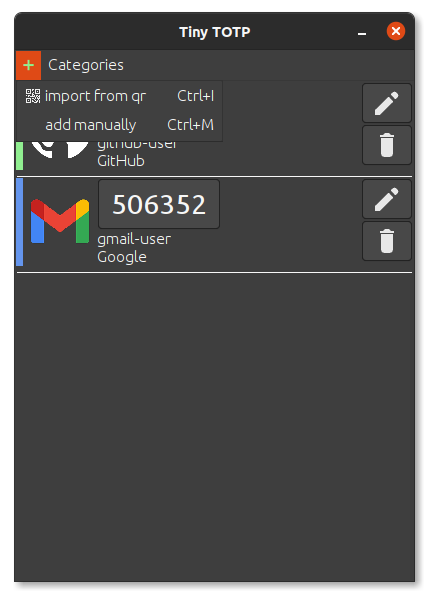
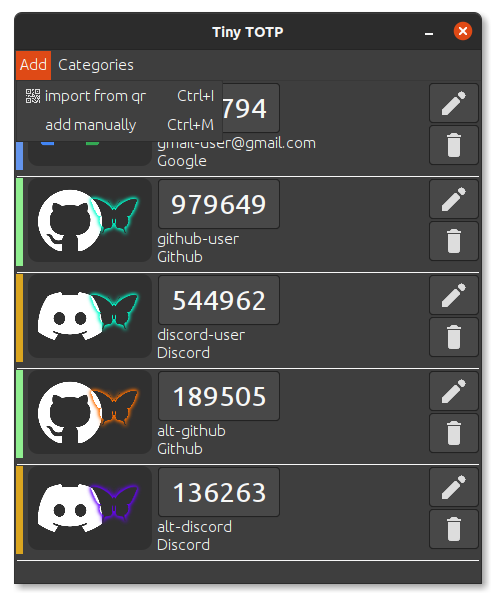
add Screenshots & update README.md

Changed region(s): [[0.03, 0.0, 0.9908, 0.96], [0.4203, 0.03, 0.5704, 0.09], [0.03, 0.0, 0.06, 0.03]]

diff --git a/README.md b/README.md
@@ -37,4 +37,8 @@ This password is used to encryt/decrypt your totp secrets.
 ![Edit Totp Secret](https://raw.githubusercontent.com/kryptonbutterfly/TinyTotp/master/md/Edit-Totp.png)
 
 ![Export Secret](https://raw.githubusercontent.com/kryptonbutterfly/TinyTotp/master/md/Export-Secret.png)
+
+![Set Icon](https://raw.githubusercontent.com/kryptonbutterfly/TinyTotp/master/md/Set-Icon.png)
+
+![Select Icon](https://raw.githubusercontent.com/kryptonbutterfly/TinyTotp/master/md/Select-Icon.png)
 </details>
